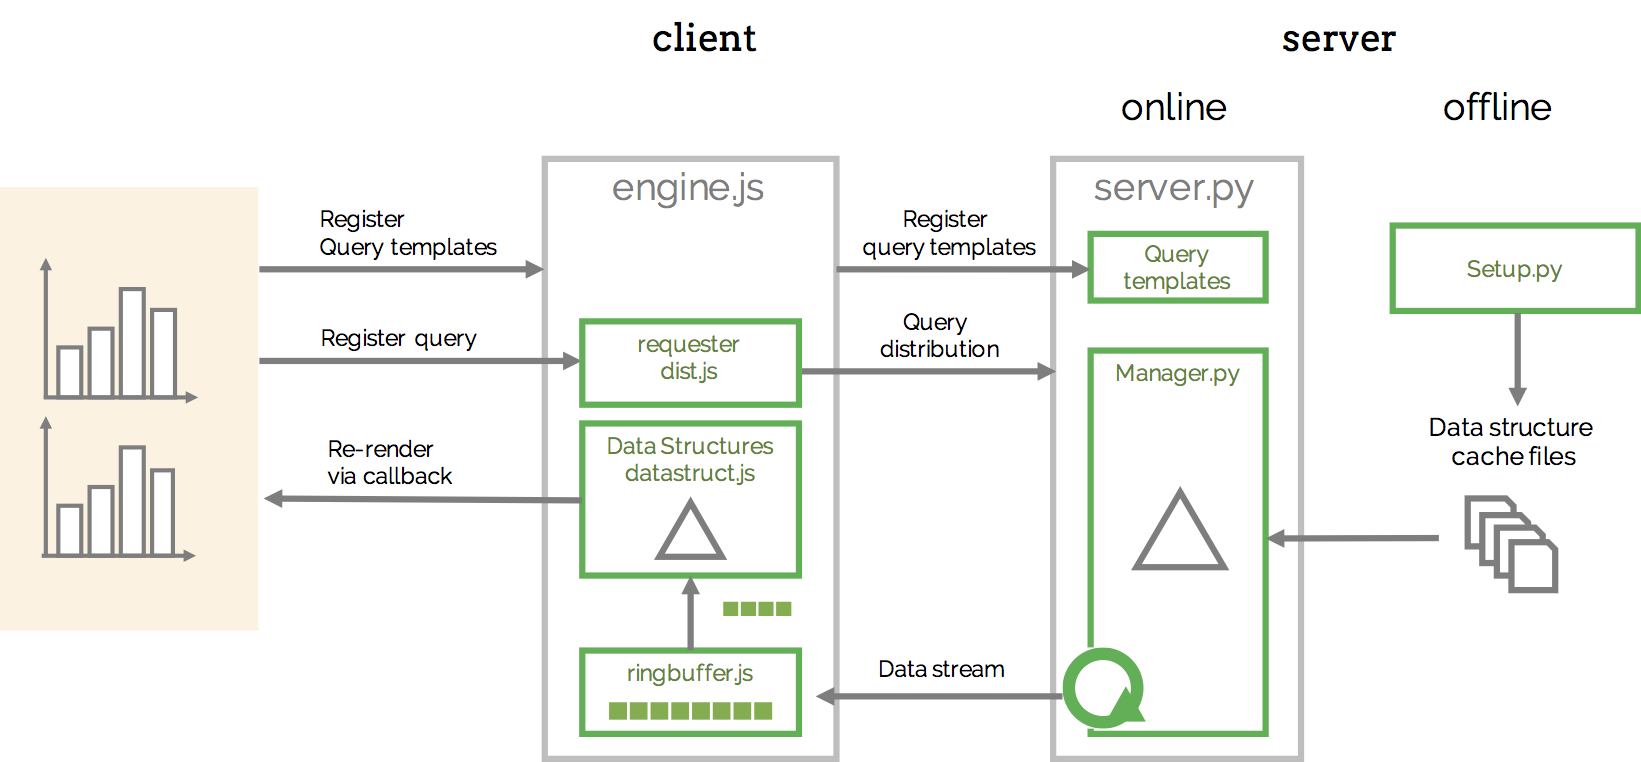
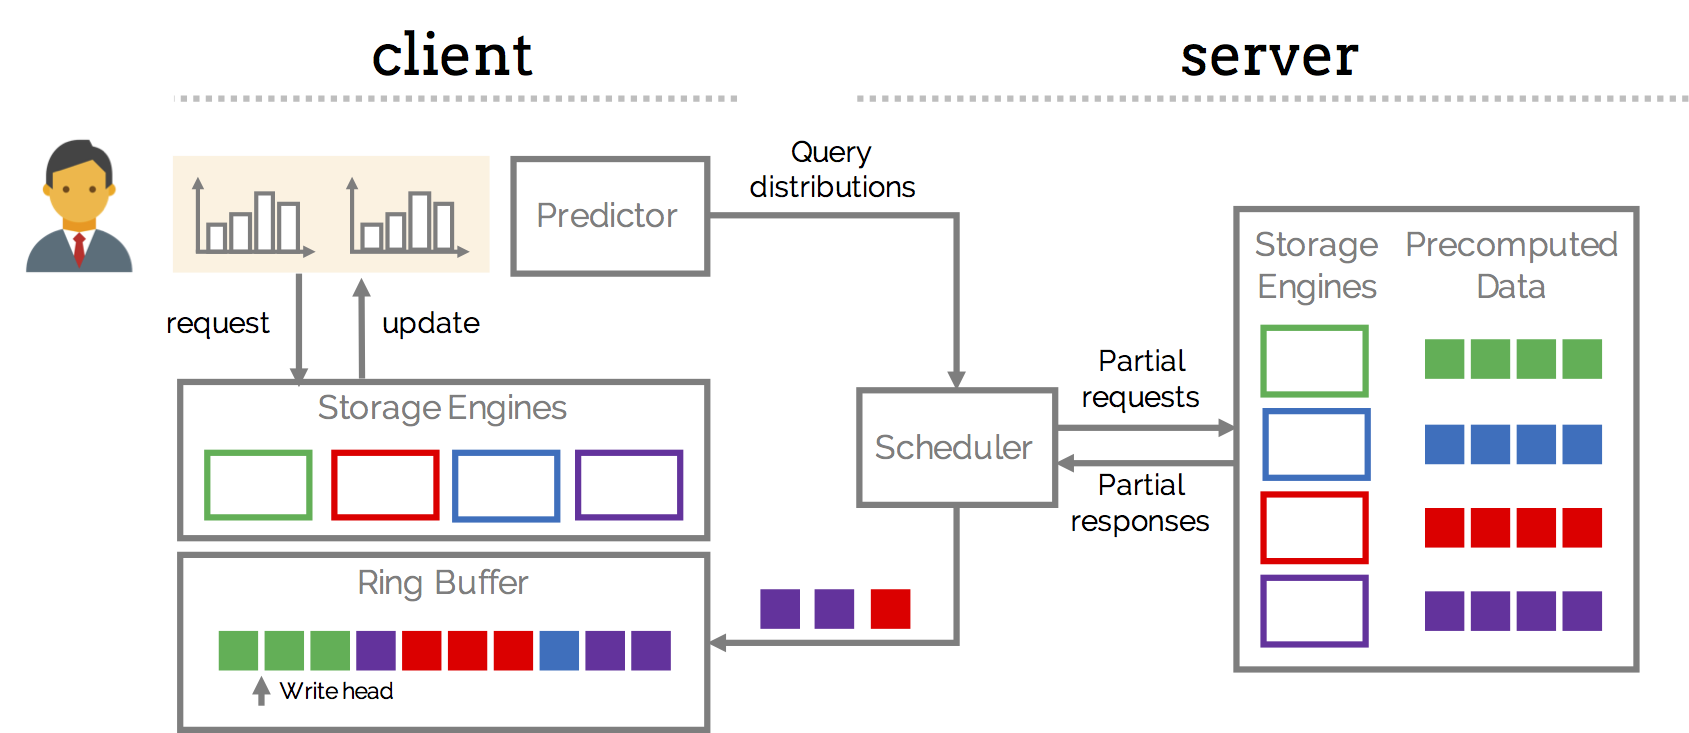
pass on arch

Changed region(s): [[0.0, 0.03, 1.0, 1.0], [0.0932, 0.03, 0.4351, 0.1501], [0.404, 0.03, 0.4662, 0.09]]

diff --git a/docs/vldb17/content/arch.tex b/docs/vldb17/content/arch.tex
@@ -1,40 +1,49 @@
-\section{Architecture}\label{s:arch}
+\section{Architecture and Technical Challenges}\label{s:arch}
+\sys combines query distribution predictions, a push-based streaming model, and progressive results into an efficient and low-latency interactive visualization architecture.  In this section, we describe the architectural design and the key technical challenges.
 
-
-\begin{figure}[ht]
+\begin{figure}[tb]
 	\centering
-	\includegraphics[width=1\columnwidth]{figures/arch}
- 	\caption{System Architecture}
+	\includegraphics[width=\columnwidth]{figures/arch}
+ 	\caption{\sys Architecture}
   \label{fig:arch}
 \end{figure}
 
+\subsection{Architecture}
+
+\sys is a streaming system designed for low-latency, data intensive interactive visualization systems.  It  consists of a thin client, such as a modern web browser, that has a limited cache size, and a more powerful backend server that answers client queries and pre-computes physical data structures during an offline optimization phase.  
+
+In order to improve perceived user interaction latency, \sys decouples client requests from server responses---the client periodically sends predictions at a rate that does not interfere with user interactions and rendering, and the server continuously sends a stream of results to the client. 
+
+Figure~\ref{fig:arch} presents the overall system architecture.
+The user interacts with an interactive visualization that we model as queries over an underlying database~\cite{wucombining,EugeneWuVision2014}.  The client keeps a cache of data in the {\it Ring Buffer}; if the request can be answered by the cache, then the visualization immediately updates.  Otherwise, the client must send a request to the server similar to traditional request-response systems.
+
+The {\it Predictor} is a separate thread that monitors the user's mouse movements ad interactions to make predictions about the user's future interactions.  These predictions are modeled as distributions over a query space, similar to the Query Intent model by Nandi et al.~\cite{gesturequery}, and sent to the server {\it Scheduler}.
+
+ Although any existing interaction or query predictor~\cite{} can be plugged into this component, we have found that their prediction accuracy degrades significantly (e.g., \ewu{XXX accuracy}) in even linked-brushing bar chart visualizations (Figure~\ref{fig:barchart}).  The primary reason is that the user can interact with any of the \ewu{100} bars, which presents a sparse state space that is challenging for existing predictors.
+
+
+The {\it Scheduler} monitors the changes in the query distributions, allocates portions of the network connection to each query, retreives partial results and determines the order they are sent back to the client.  The scheduler simply schedules and routes queries, which are executed by the {\it Storage Engines}.  Each storage engine is responsible for implementing two functions.     \texttt{costEstimate(query):Int} returns a rough cost estimate to execute the query, or $-1$ if it is not able to; this allows a storage engine to restrict the set of queries it must answer, and thereby allow hyper-specialized storage engines.  \texttt{getBytes(query, nBytes, [offset]):ByteBuffer} executes the query and returns the most informative \texttt{nBytes} to approximate those results; the optional third argument specifies that the client already recieved the first \texttt{offset} bytes.
+
+For instance, a naive storage engine may pre-compute results for a parameterized query.  Given \texttt{SELECT a, sum(b) FROM T WHERE c = ? GROUP BY a}, the engine may execute the query for all assignments of \texttt{c}, and perform wavelet compression on each result~\cite{malvar1999fast}.  Since the results are precomputed, the \texttt{costEstimate} is simply a constant lookup cost if the query matches the template, or $-1$.  Finally, because the results are progressively encoded, the engine returns the first \texttt{nBytes} of the precomputed results.  
+
+Each server-side storage engine has a client-side counterpart that is responsible for decoding the byte streams and returning query results in the form of relations.  This design gives each storage engine flexibility in how it encodes the data.  For instance, a sampling-based storage engine may simply send samples to the client, which performs aggregation and approximation over all samples in the ring buffer.  Similarly, a datacube-based storage engine may send relevant portions or resolutions of the datacube to the client.
+
+Ultimately, the Scheduler sends the bytes it retrieves from the storage engines to the client's ring buffer.  The {\it Ring Buffer} is akin to the buffer manager in classic database systems.  It is a preallocated block of memory; however in contrast to traditional buffer managers, data sent from the server is written sequentially to the buffer and simply overwrites existing content. \ewu{Explain the rationale for this.} Every time the ring buffer detects a usable block of bytes, it sends a view of the block to its appropriate client-side storage engine to decode and use to answer client queries.  Similarly, when a block is overwritten, it sends a \texttt{deallocate} request to the appropriate storage engine.
+
+\subsection{Design Rationale}
+
+Visualization systems typically restrict the query space to a finite set of pre-defined query structures.    In our case, we simplify and assume a set of query templates have been pre-registered to the system.  This is common in data intensive graphics and visualization systems~\cite{wireviz}
+
+
+This design is based on a confluence of powerful browser javascript engines and unbiquitous networking.  The advent of powerful browser technologies such as vectorized execution and asm.js-based Ahead-of-time compilation has led to the possibility of browser-based query execution engines whose performance is competitive with state-of-the-art in-memory column store databases such as MonetDB~\cite{gebaly2016afterburner}.
+
+\ewu{Maybe cut?  Although the physical implementation is client server, the logical analysis considers the data visualization as a logical database view~\cite{EugeneWuVision2014,wucombining}}
+
+
+\subsection{Technical Challenges}
 
 Challenges:   How to represent and generate distributions?
 What to return?  Scheduling problem -- adopt existing scheduling work.
 Progressive encoding -- try obvious options.  see if they work.
 
 
-\ewu{copied from assignment readme}
-Figure~\ref{fig:arch} represents the overall architecture of the system and will be used to introduce the major files.
-From left to write, the developer creates visualization charts as wrappers around query templates. When the viz are instantiated, the query templates are registered with the server, so the server can instantiate the appropriate precomputed data structures. The query templates basically parameterize SQL queries.
-
-When a user interacts with the viz (in this case, by hovering over bars), it generates parameter values for the visualization's corresponding query template. The combination is called a query, which is registered with the client Engine. If the data to answer the query is already in the client's cache, then the appropriate client data structure will compute the result and trigger a call back to update the appropriate visualizations.
-
-If data is not available, then the requester will turn the request into a query distribution (where the query has probability 1, and everything else has probability 0) and sends the distribution to the server. The requester's other job is to continuously predict the future query distribution and send it to the server. The impulse distribution is only used when the user actually runs a query that is not in the cache.
-
-The server's manager is basically an infinite loop that can continuously send data to the client. The instantiated data structures read from pre-computed cache files to answer queries in the current query distribution and sends a byte stream to the client.
-
-The client recieves and caches the byte stream into a simple ring buffer. Everytime it detects a usable block of bytes, it sends it to the appropriate data structure to decode and use to answer client queries.
-
-
-Data structures represent different typs of storage engines that could answer user queries. Data structure objects are represented as triangles in the architecture, they read cached files generated ahead of time (offline). They are the workhorse for answering queries.
-
-There are a few key concepts that are important to understand how they work.
-
-\begin{enumerate}
-\item Data structures are instantiated with a query template (e.g., SELECT * WHERE a = ? AND b = ? ...) and precomputes all possible assignments to those parameters.
-\item For a given data structure, it's query input is the ID of the query template and the values for the parameters.
-\item Data structures send a block of byte-encoded data to the client, which needs to decode the bytes.
-\item On the client, once the bytes are (optionally) decoded into javascript objects, the data structure still needs to know which queries the data can answer. To do so, we basically hash the parameter values and use it as a lookup key.
-\item All of this means that we need to carefully ensure that data and queries are represented in exactly the same way in the client, the web server, and the offline scripts.
-\end{enumerate}

diff --git a/docs/vldb17/content/impl.tex b/docs/vldb17/content/impl.tex
@@ -3,12 +3,15 @@
 
 \subsection{Prediction Model}
 
+Describe the challenges: prediction in general.  Note that the needed accuracy is low.  Note that KTM and mouse prediction is pretty good -- particularly if the "active" region of the interface is well established.
+
 
 \stitle{Representing Distributions}
+Distributions can represent thousands of possible queries.  Simply representing it efficiently is an issue.
 
 \subsection{Streaming Results}
 
-Two policies: naive, best effort, Microsoft
+Two policies: topk, all, best effort, Microsoft
 
 
 \subsection{Progressive Encoding}
